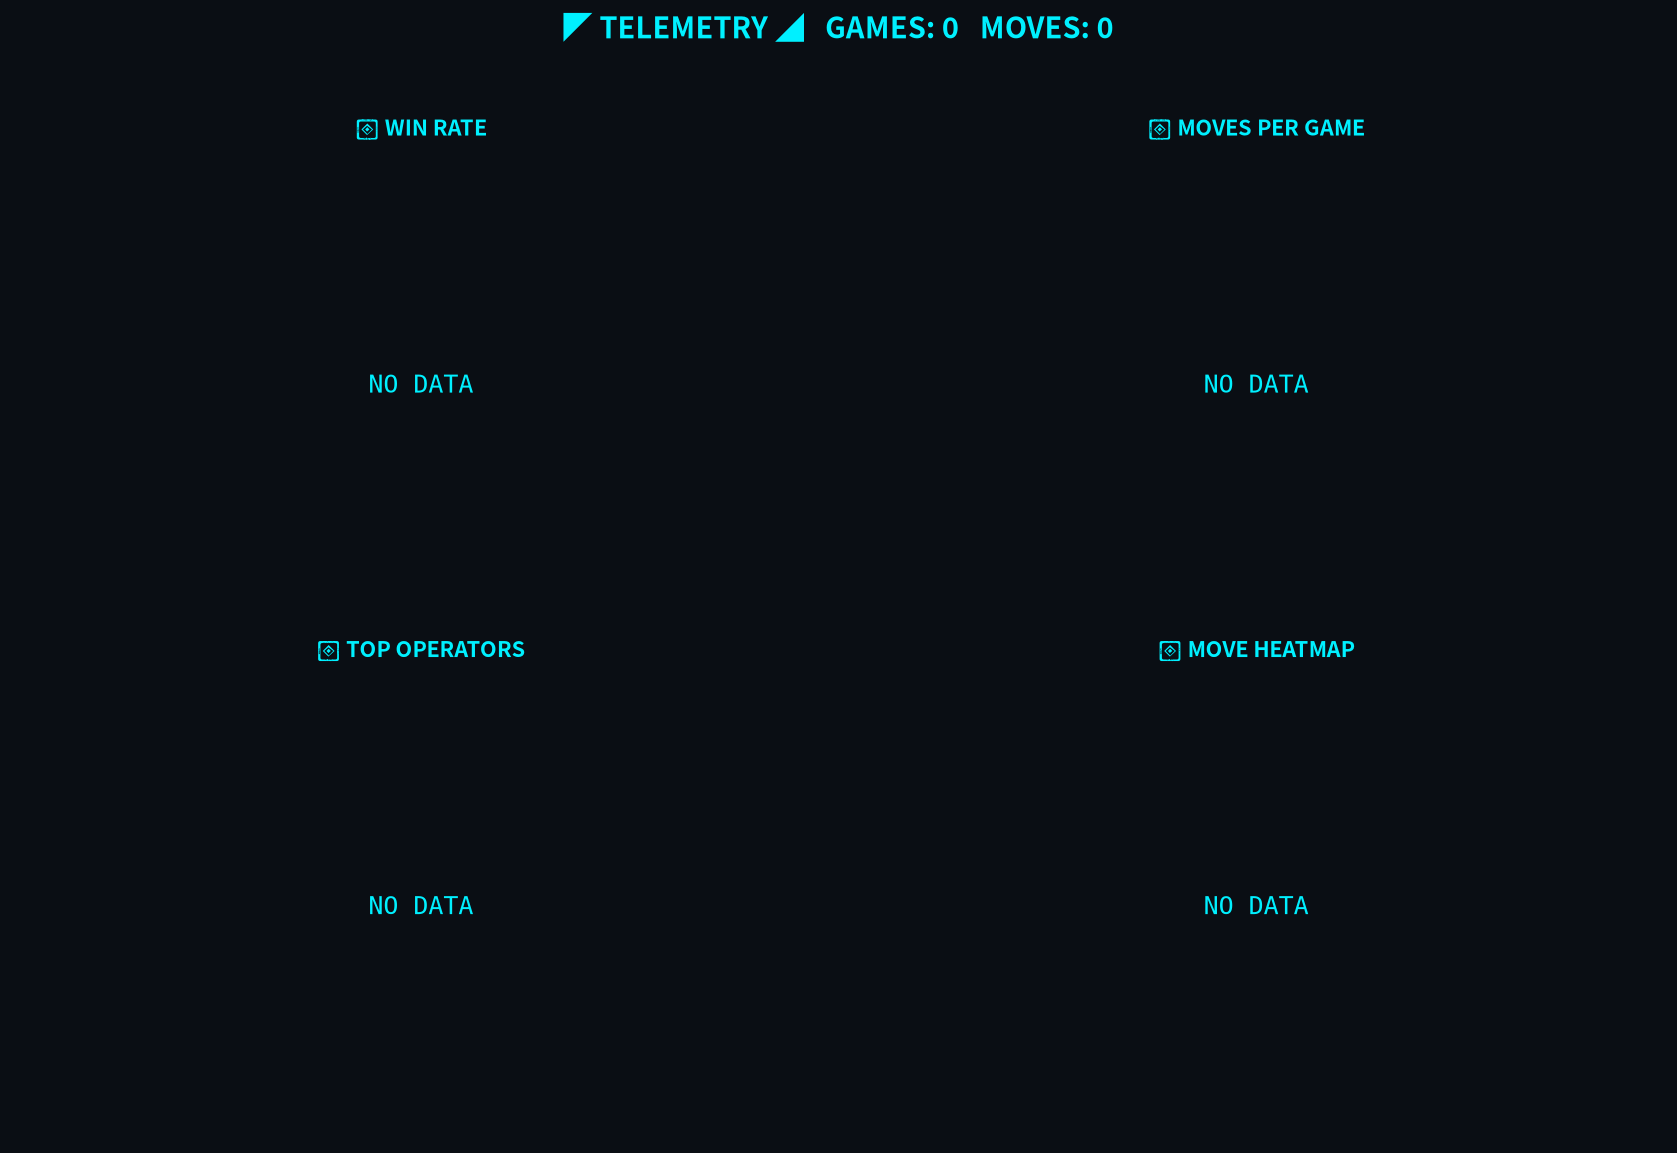
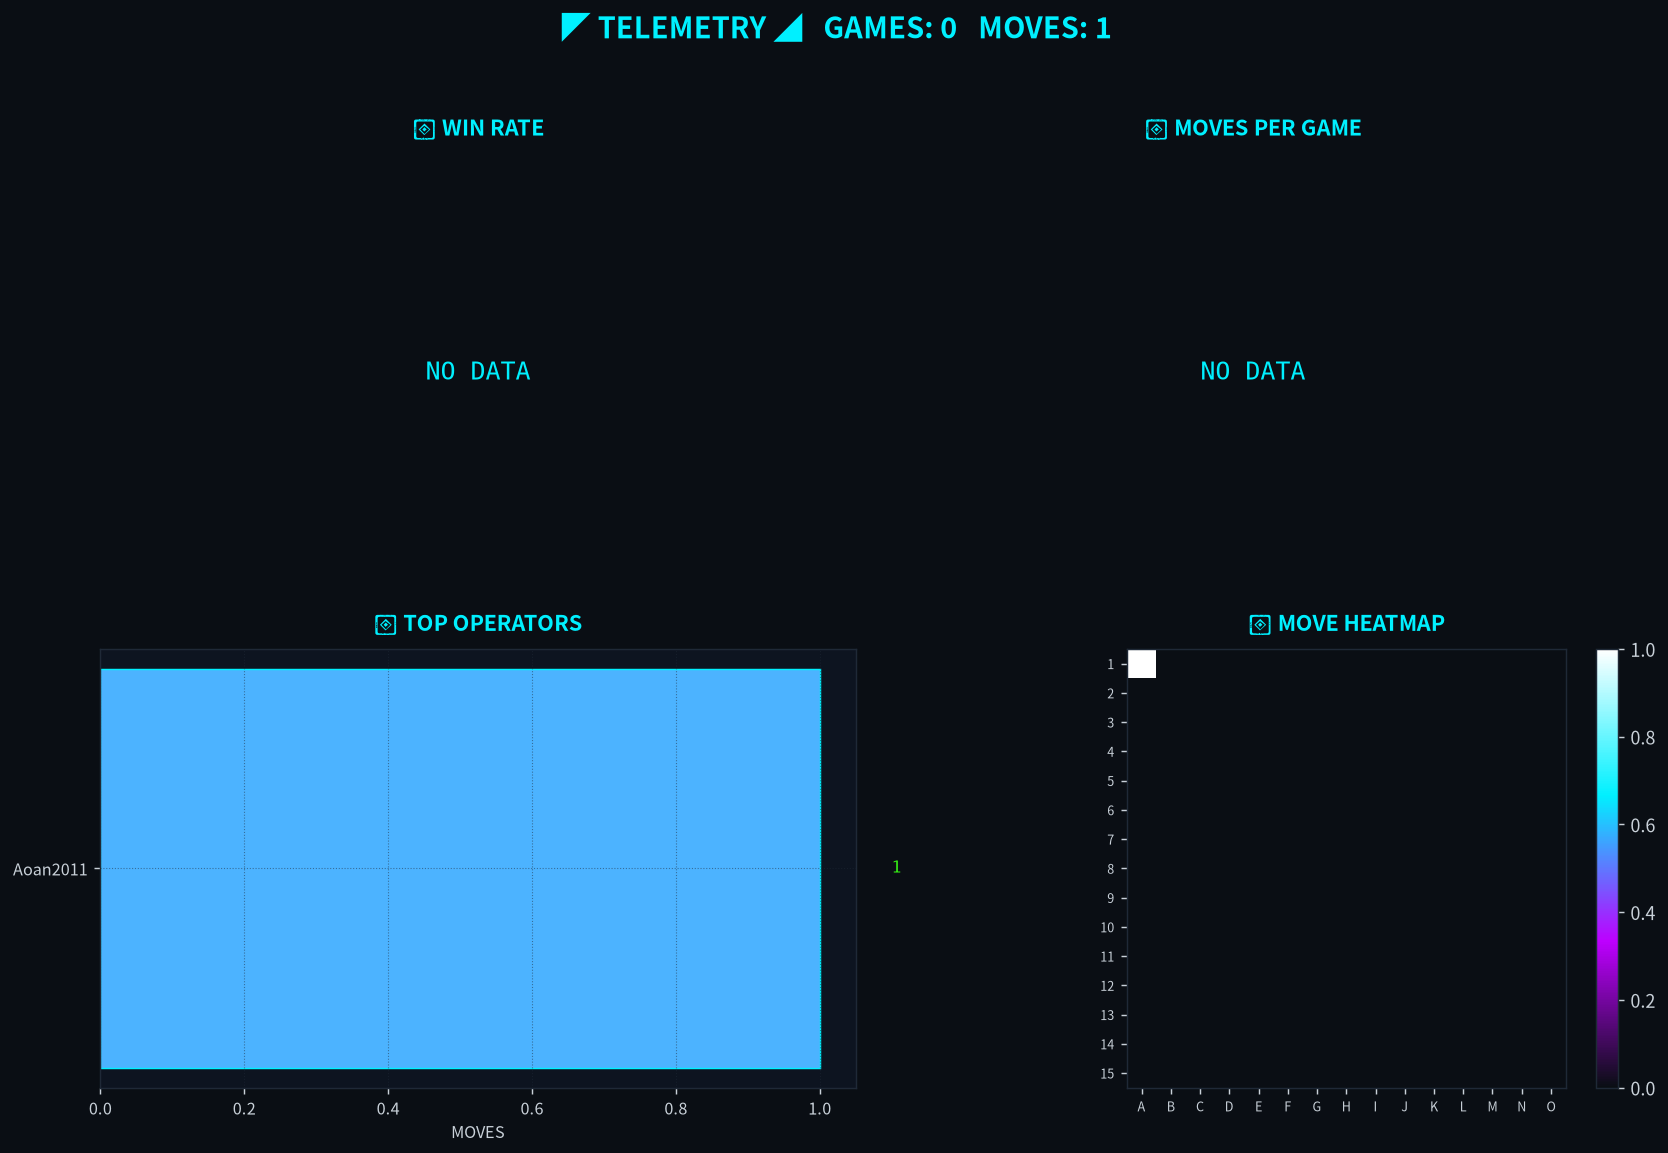
Move A1 by Aoan2011 [skip ci]

diff --git a/README.md b/README.md
@@ -7,8 +7,8 @@
 </div>
 ```
 ╔══════════════════════════════════════════════════════════════╗
-║  GOMOKU ENGINE v1.0     STATUS: ● 黑方_⚫_TURN               ║
-║  GAME ID : 1         MOVE : 0        LAST : --      ║
+║  GOMOKU ENGINE v1.0     STATUS: ● 白方_⚪_TURN               ║
+║  GAME ID : 1         MOVE : 1        LAST : A1      ║
 ╠══════════════════════════════════════════════════════════════╣
 ║  FEATURED : One-Editor  [ Textual TUI Editor ]               ║
 ╚══════════════════════════════════════════════════════════════╝
@@ -44,11 +44,11 @@
 
 ## ▸ BOARD
 
-> 当前回合 **黑方 ⚫** ｜ 点击棋盘 `·` 落子
+> 当前回合 **白方 ⚪** ｜ 点击棋盘 `·` 落子
 
 |   |**A**|**B**|**C**|**D**|**E**|**F**|**G**|**H**|**I**|**J**|**K**|**L**|**M**|**N**|**O**|
 |:---:|:---:|:---:|:---:|:---:|:---:|:---:|:---:|:---:|:---:|:---:|:---:|:---:|:---:|:---:|:---:|
-|**1**|[·](https://github.com/Aoan2011/Aoan2011/issues/new?title=gomoku%7Cplace%7CA1&body=点击Submit落子)|[·](https://github.com/Aoan2011/Aoan2011/issues/new?title=gomoku%7Cplace%7CB1&body=点击Submit落子)|[·](https://github.com/Aoan2011/Aoan2011/issues/new?title=gomoku%7Cplace%7CC1&body=点击Submit落子)|[·](https://github.com/Aoan2011/Aoan2011/issues/new?title=gomoku%7Cplace%7CD1&body=点击Submit落子)|[·](https://github.com/Aoan2011/Aoan2011/issues/new?title=gomoku%7Cplace%7CE1&body=点击Submit落子)|[·](https://github.com/Aoan2011/Aoan2011/issues/new?title=gomoku%7Cplace%7CF1&body=点击Submit落子)|[·](https://github.com/Aoan2011/Aoan2011/issues/new?title=gomoku%7Cplace%7CG1&body=点击Submit落子)|[·](https://github.com/Aoan2011/Aoan2011/issues/new?title=gomoku%7Cplace%7CH1&body=点击Submit落子)|[·](https://github.com/Aoan2011/Aoan2011/issues/new?title=gomoku%7Cplace%7CI1&body=点击Submit落子)|[·](https://github.com/Aoan2011/Aoan2011/issues/new?title=gomoku%7Cplace%7CJ1&body=点击Submit落子)|[·](https://github.com/Aoan2011/Aoan2011/issues/new?title=gomoku%7Cplace%7CK1&body=点击Submit落子)|[·](https://github.com/Aoan2011/Aoan2011/issues/new?title=gomoku%7Cplace%7CL1&body=点击Submit落子)|[·](https://github.com/Aoan2011/Aoan2011/issues/new?title=gomoku%7Cplace%7CM1&body=点击Submit落子)|[·](https://github.com/Aoan2011/Aoan2011/issues/new?title=gomoku%7Cplace%7CN1&body=点击Submit落子)|[·](https://github.com/Aoan2011/Aoan2011/issues/new?title=gomoku%7Cplace%7CO1&body=点击Submit落子)|
+|**1**|●|[·](https://github.com/Aoan2011/Aoan2011/issues/new?title=gomoku%7Cplace%7CB1&body=点击Submit落子)|[·](https://github.com/Aoan2011/Aoan2011/issues/new?title=gomoku%7Cplace%7CC1&body=点击Submit落子)|[·](https://github.com/Aoan2011/Aoan2011/issues/new?title=gomoku%7Cplace%7CD1&body=点击Submit落子)|[·](https://github.com/Aoan2011/Aoan2011/issues/new?title=gomoku%7Cplace%7CE1&body=点击Submit落子)|[·](https://github.com/Aoan2011/Aoan2011/issues/new?title=gomoku%7Cplace%7CF1&body=点击Submit落子)|[·](https://github.com/Aoan2011/Aoan2011/issues/new?title=gomoku%7Cplace%7CG1&body=点击Submit落子)|[·](https://github.com/Aoan2011/Aoan2011/issues/new?title=gomoku%7Cplace%7CH1&body=点击Submit落子)|[·](https://github.com/Aoan2011/Aoan2011/issues/new?title=gomoku%7Cplace%7CI1&body=点击Submit落子)|[·](https://github.com/Aoan2011/Aoan2011/issues/new?title=gomoku%7Cplace%7CJ1&body=点击Submit落子)|[·](https://github.com/Aoan2011/Aoan2011/issues/new?title=gomoku%7Cplace%7CK1&body=点击Submit落子)|[·](https://github.com/Aoan2011/Aoan2011/issues/new?title=gomoku%7Cplace%7CL1&body=点击Submit落子)|[·](https://github.com/Aoan2011/Aoan2011/issues/new?title=gomoku%7Cplace%7CM1&body=点击Submit落子)|[·](https://github.com/Aoan2011/Aoan2011/issues/new?title=gomoku%7Cplace%7CN1&body=点击Submit落子)|[·](https://github.com/Aoan2011/Aoan2011/issues/new?title=gomoku%7Cplace%7CO1&body=点击Submit落子)|
 |**2**|[·](https://github.com/Aoan2011/Aoan2011/issues/new?title=gomoku%7Cplace%7CA2&body=点击Submit落子)|[·](https://github.com/Aoan2011/Aoan2011/issues/new?title=gomoku%7Cplace%7CB2&body=点击Submit落子)|[·](https://github.com/Aoan2011/Aoan2011/issues/new?title=gomoku%7Cplace%7CC2&body=点击Submit落子)|[·](https://github.com/Aoan2011/Aoan2011/issues/new?title=gomoku%7Cplace%7CD2&body=点击Submit落子)|[·](https://github.com/Aoan2011/Aoan2011/issues/new?title=gomoku%7Cplace%7CE2&body=点击Submit落子)|[·](https://github.com/Aoan2011/Aoan2011/issues/new?title=gomoku%7Cplace%7CF2&body=点击Submit落子)|[·](https://github.com/Aoan2011/Aoan2011/issues/new?title=gomoku%7Cplace%7CG2&body=点击Submit落子)|[·](https://github.com/Aoan2011/Aoan2011/issues/new?title=gomoku%7Cplace%7CH2&body=点击Submit落子)|[·](https://github.com/Aoan2011/Aoan2011/issues/new?title=gomoku%7Cplace%7CI2&body=点击Submit落子)|[·](https://github.com/Aoan2011/Aoan2011/issues/new?title=gomoku%7Cplace%7CJ2&body=点击Submit落子)|[·](https://github.com/Aoan2011/Aoan2011/issues/new?title=gomoku%7Cplace%7CK2&body=点击Submit落子)|[·](https://github.com/Aoan2011/Aoan2011/issues/new?title=gomoku%7Cplace%7CL2&body=点击Submit落子)|[·](https://github.com/Aoan2011/Aoan2011/issues/new?title=gomoku%7Cplace%7CM2&body=点击Submit落子)|[·](https://github.com/Aoan2011/Aoan2011/issues/new?title=gomoku%7Cplace%7CN2&body=点击Submit落子)|[·](https://github.com/Aoan2011/Aoan2011/issues/new?title=gomoku%7Cplace%7CO2&body=点击Submit落子)|
 |**3**|[·](https://github.com/Aoan2011/Aoan2011/issues/new?title=gomoku%7Cplace%7CA3&body=点击Submit落子)|[·](https://github.com/Aoan2011/Aoan2011/issues/new?title=gomoku%7Cplace%7CB3&body=点击Submit落子)|[·](https://github.com/Aoan2011/Aoan2011/issues/new?title=gomoku%7Cplace%7CC3&body=点击Submit落子)|[·](https://github.com/Aoan2011/Aoan2011/issues/new?title=gomoku%7Cplace%7CD3&body=点击Submit落子)|[·](https://github.com/Aoan2011/Aoan2011/issues/new?title=gomoku%7Cplace%7CE3&body=点击Submit落子)|[·](https://github.com/Aoan2011/Aoan2011/issues/new?title=gomoku%7Cplace%7CF3&body=点击Submit落子)|[·](https://github.com/Aoan2011/Aoan2011/issues/new?title=gomoku%7Cplace%7CG3&body=点击Submit落子)|[·](https://github.com/Aoan2011/Aoan2011/issues/new?title=gomoku%7Cplace%7CH3&body=点击Submit落子)|[·](https://github.com/Aoan2011/Aoan2011/issues/new?title=gomoku%7Cplace%7CI3&body=点击Submit落子)|[·](https://github.com/Aoan2011/Aoan2011/issues/new?title=gomoku%7Cplace%7CJ3&body=点击Submit落子)|[·](https://github.com/Aoan2011/Aoan2011/issues/new?title=gomoku%7Cplace%7CK3&body=点击Submit落子)|[·](https://github.com/Aoan2011/Aoan2011/issues/new?title=gomoku%7Cplace%7CL3&body=点击Submit落子)|[·](https://github.com/Aoan2011/Aoan2011/issues/new?title=gomoku%7Cplace%7CM3&body=点击Submit落子)|[·](https://github.com/Aoan2011/Aoan2011/issues/new?title=gomoku%7Cplace%7CN3&body=点击Submit落子)|[·](https://github.com/Aoan2011/Aoan2011/issues/new?title=gomoku%7Cplace%7CO3&body=点击Submit落子)|
 |**4**|[·](https://github.com/Aoan2011/Aoan2011/issues/new?title=gomoku%7Cplace%7CA4&body=点击Submit落子)|[·](https://github.com/Aoan2011/Aoan2011/issues/new?title=gomoku%7Cplace%7CB4&body=点击Submit落子)|[·](https://github.com/Aoan2011/Aoan2011/issues/new?title=gomoku%7Cplace%7CC4&body=点击Submit落子)|[·](https://github.com/Aoan2011/Aoan2011/issues/new?title=gomoku%7Cplace%7CD4&body=点击Submit落子)|[·](https://github.com/Aoan2011/Aoan2011/issues/new?title=gomoku%7Cplace%7CE4&body=点击Submit落子)|[·](https://github.com/Aoan2011/Aoan2011/issues/new?title=gomoku%7Cplace%7CF4&body=点击Submit落子)|[·](https://github.com/Aoan2011/Aoan2011/issues/new?title=gomoku%7Cplace%7CG4&body=点击Submit落子)|[·](https://github.com/Aoan2011/Aoan2011/issues/new?title=gomoku%7Cplace%7CH4&body=点击Submit落子)|[·](https://github.com/Aoan2011/Aoan2011/issues/new?title=gomoku%7Cplace%7CI4&body=点击Submit落子)|[·](https://github.com/Aoan2011/Aoan2011/issues/new?title=gomoku%7Cplace%7CJ4&body=点击Submit落子)|[·](https://github.com/Aoan2011/Aoan2011/issues/new?title=gomoku%7Cplace%7CK4&body=点击Submit落子)|[·](https://github.com/Aoan2011/Aoan2011/issues/new?title=gomoku%7Cplace%7CL4&body=点击Submit落子)|[·](https://github.com/Aoan2011/Aoan2011/issues/new?title=gomoku%7Cplace%7CM4&body=点击Submit落子)|[·](https://github.com/Aoan2011/Aoan2011/issues/new?title=gomoku%7Cplace%7CN4&body=点击Submit落子)|[·](https://github.com/Aoan2011/Aoan2011/issues/new?title=gomoku%7Cplace%7CO4&body=点击Submit落子)|
